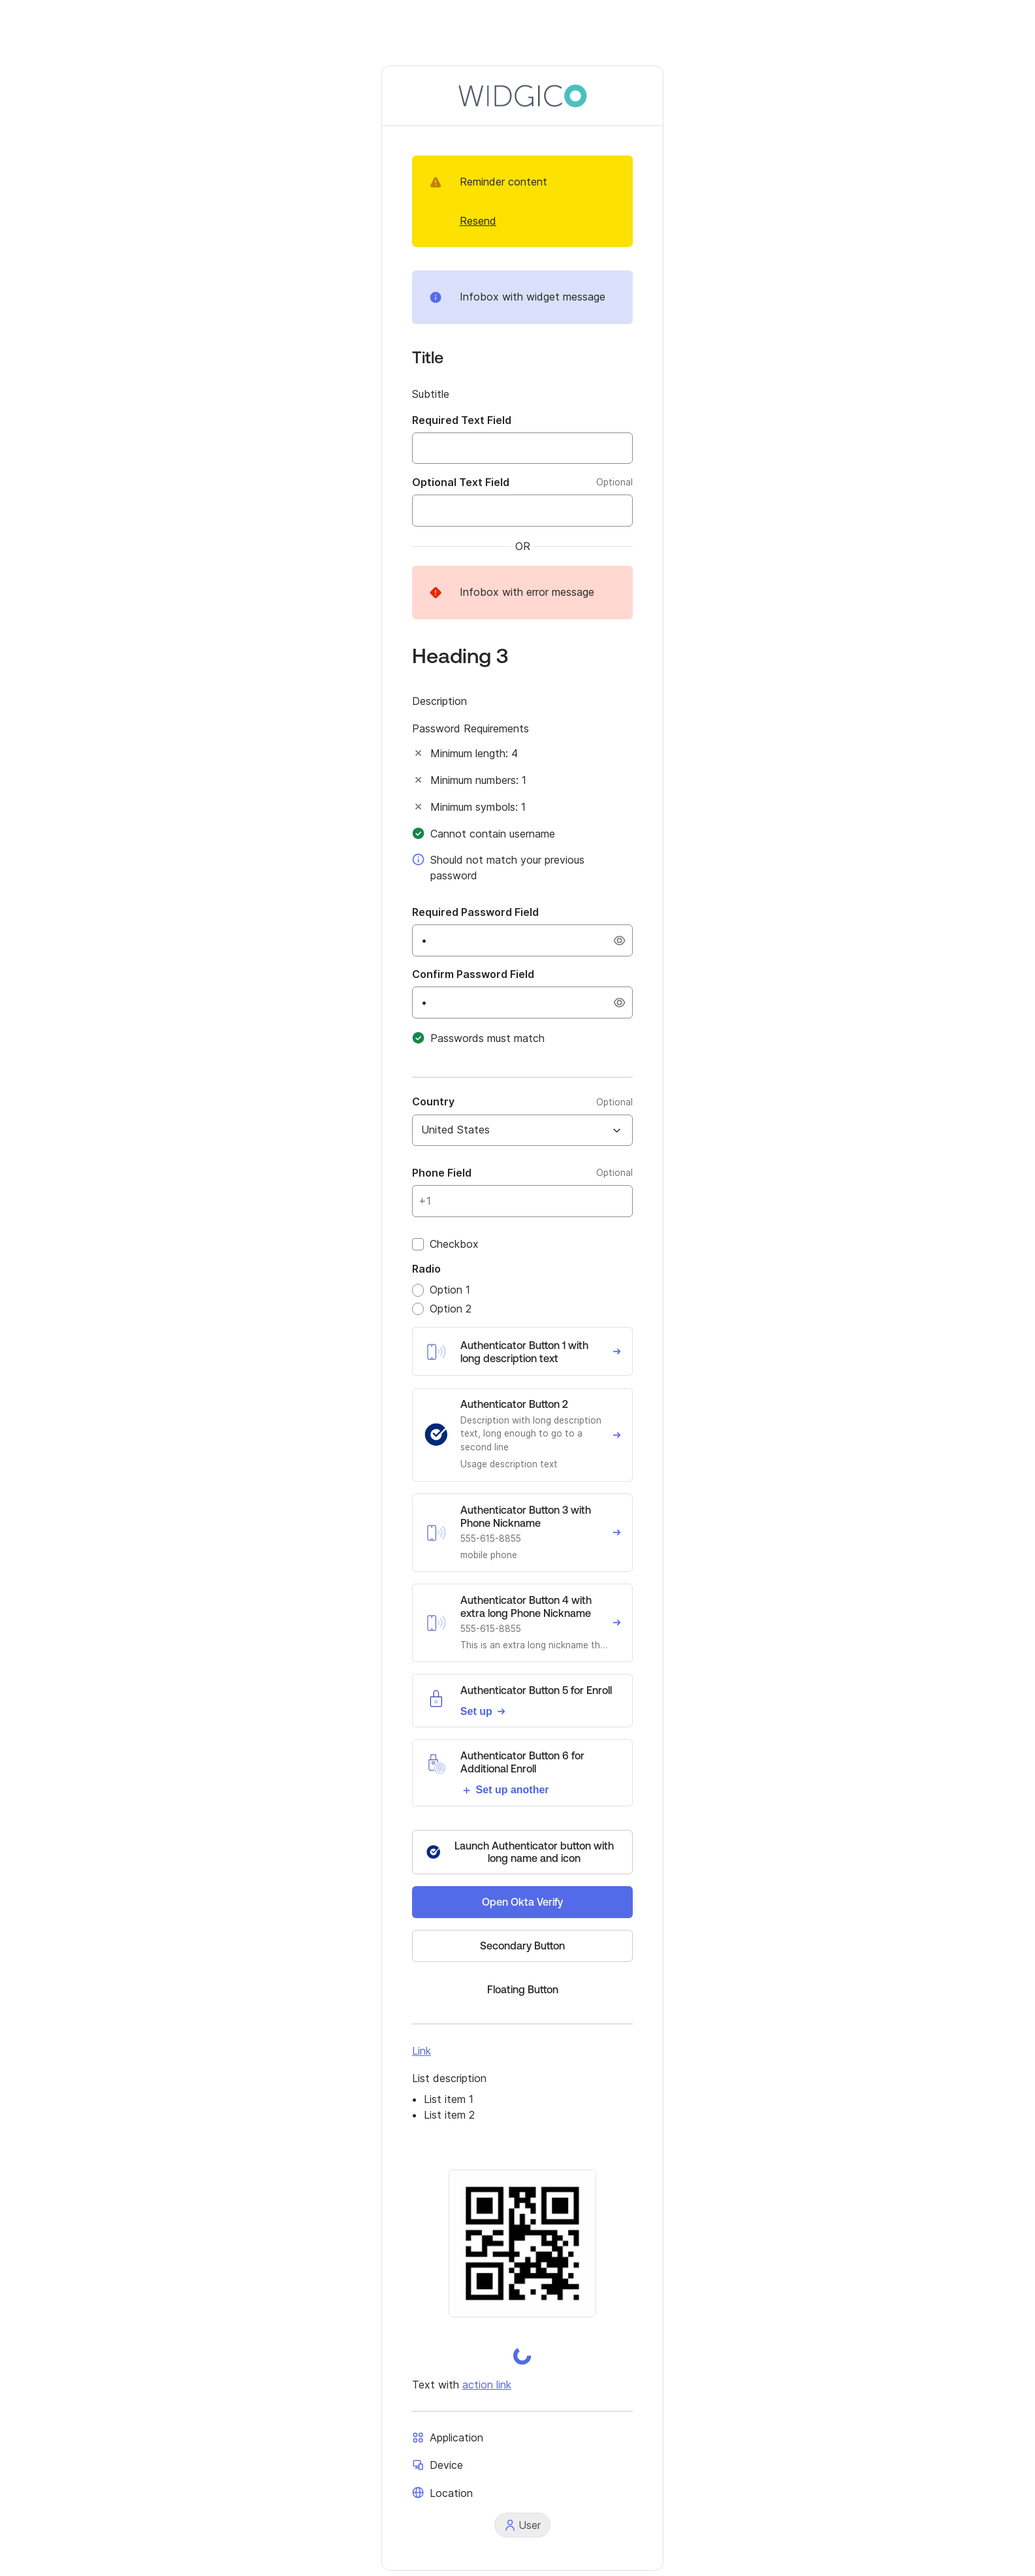
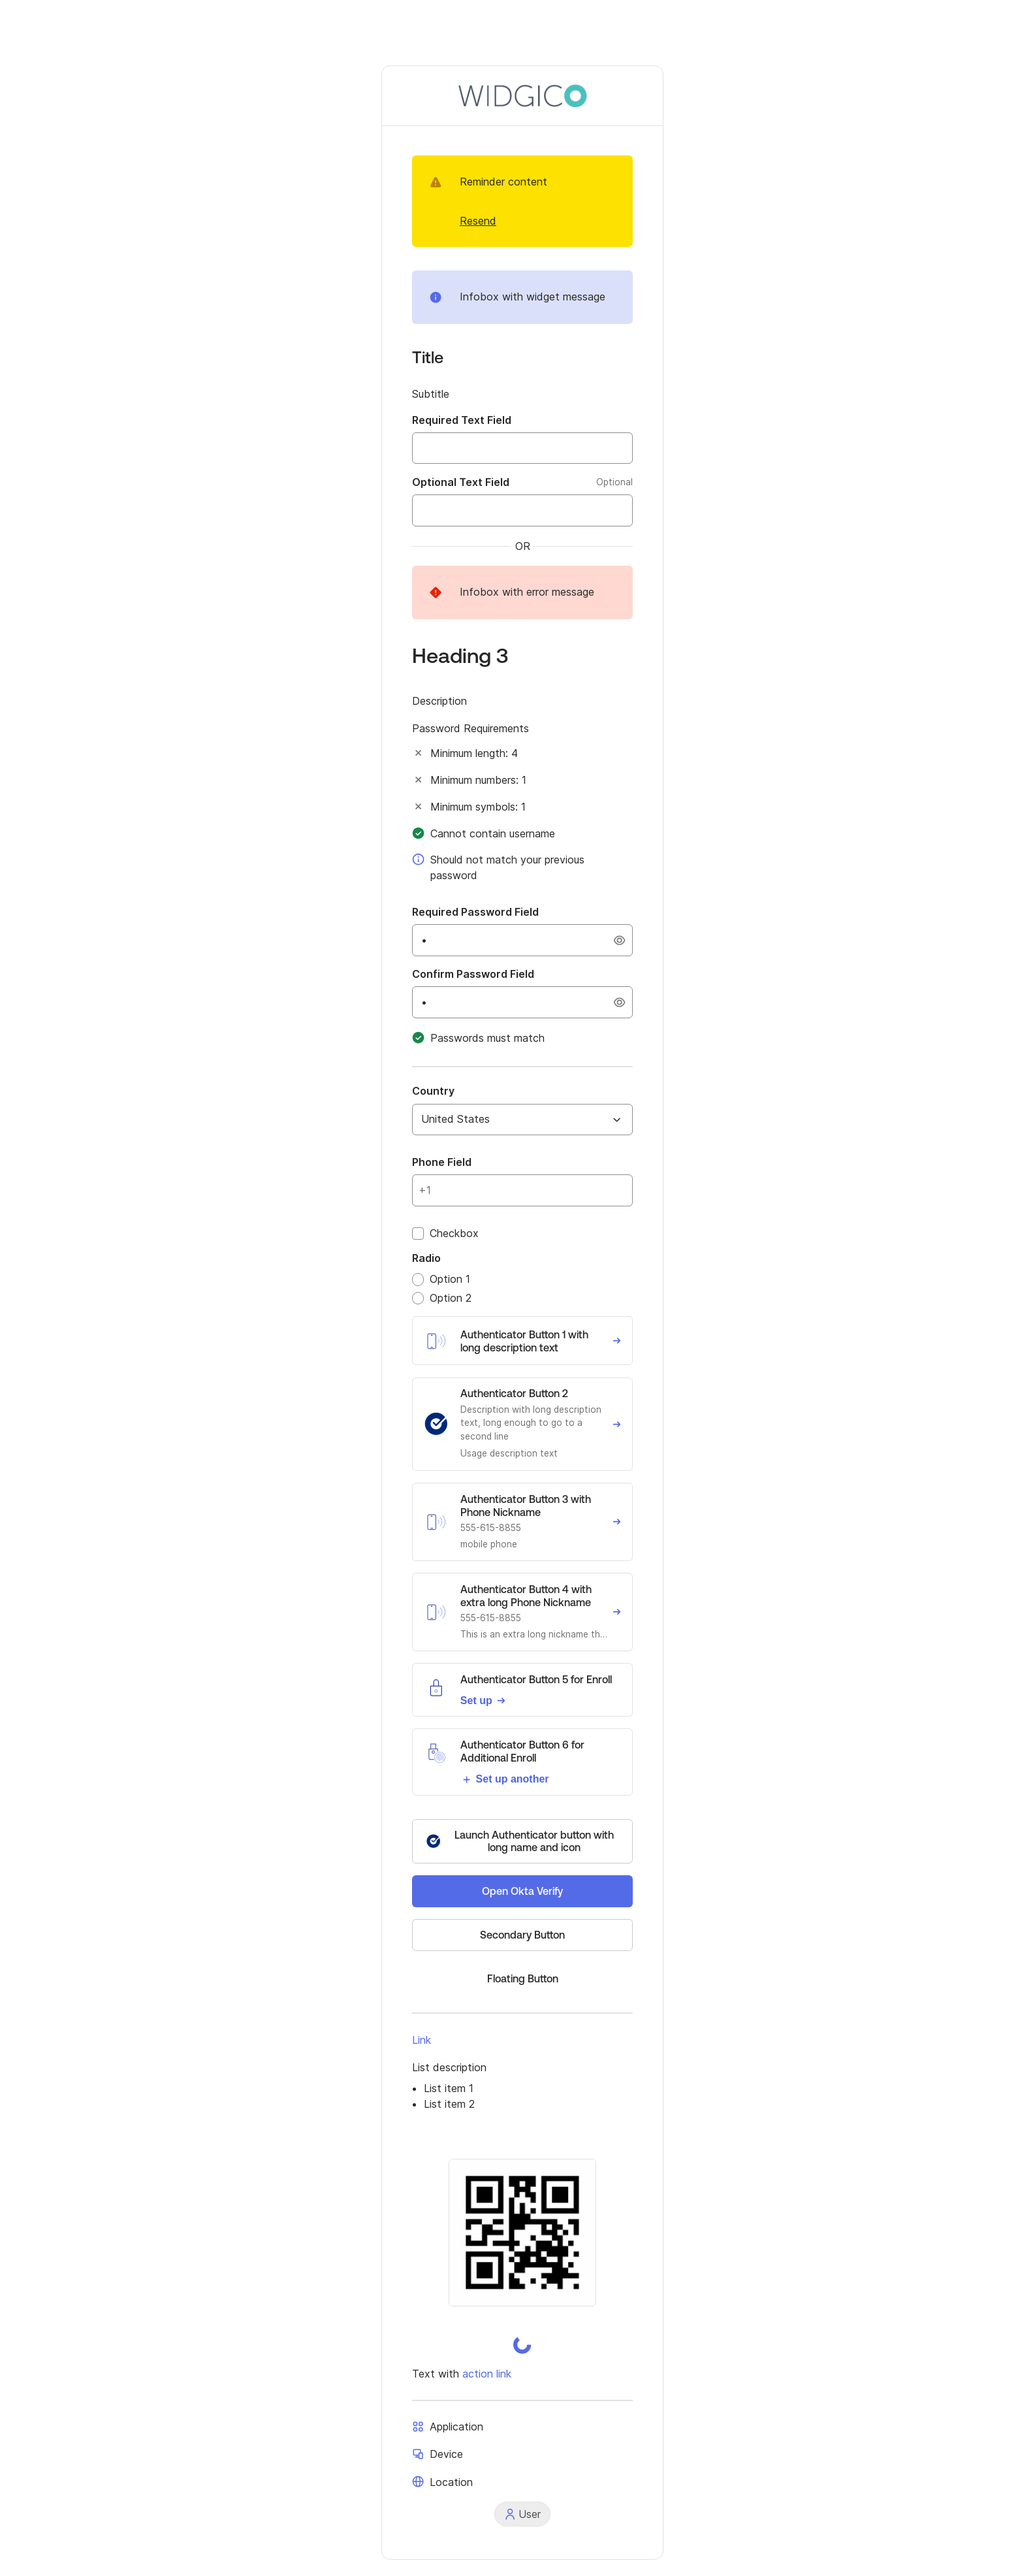
Bug bash fixes

diff --git a/src/v3/src/util/theme.ts b/src/v3/src/util/theme.ts
@@ -23,7 +23,7 @@ import { mergeThemes } from './mergeThemes';
 
 const WHITE_HEX = '#ffffff';
 // Odyssey-defined contrast ratios for their WCAG-friendly palettes
-const ODYSSEY_RATIOS = [1.1, 1.31, 1.61, 2.22, 3.32, 4.5, 4.95, 8.72, 11.73, 14.94];
+const ODYSSEY_RATIOS = [1.1, 1.31, 1.61, 2.22, 3.32, 4.52, 4.93, 8.72, 11.73, 14.94];
 
 interface OdysseyPalette {
   CustomHue50: string,
@@ -174,7 +174,7 @@ export const createThemeAndTokens = (
       MuiAlert: {
         styleOverrides: {
           root: {
-            gap: 0,
+            gap: mergedTokens.Spacing0,
           },
           icon: {
             paddingInlineEnd: mergedTokens.Spacing5,
@@ -192,8 +192,12 @@ export const createThemeAndTokens = (
             // Odyssey CircularProgress does not allow color change but SIW needs a white spinner
             // when rendering it as the startIcon for primary buttons
             ...(ownerState.variant === 'primary' && {
-              '& .MuiCircularProgress-root': {
-                color: mergedTokens.HueNeutralWhite,
+              '&:disabled': {
+                color: mergedTokens.PalettePrimaryLight,
+                backgroundColor: mergedTokens.PalettePrimaryHighlight,
+                '& .MuiCircularProgress-root': {
+                  color: mergedTokens.PalettePrimaryLight,
+                },
               },
             }),
             // Fix for IE11 - don't shrink icon if the button text is multiline
@@ -224,7 +228,7 @@ export const createThemeAndTokens = (
         styleOverrides: {
           root: {
             // Odyssey uses gap for spacing between Checkbox and label which is not IE11-friendly
-            gap: 0,
+            gap: mergedTokens.Spacing0,
           },
           label: {
             // Fixes text overflow in IE11
@@ -260,6 +264,13 @@ export const createThemeAndTokens = (
             },
           },
           adornedEnd: ({ ownerState }) => ({
+            // Odyssey does not support a focus indicator around toggle icon button
+            '& .MuiIconButton-root:focus-visible': {
+              borderRadius: mergedTokens.BorderRadiusMain,
+              outlineColor: mergedTokens.FocusOutlineColorPrimary,
+              outlineStyle: mergedTokens.FocusOutlineStyle,
+              outlineWidth: mergedTokens.FocusOutlineWidthTight,
+            },
             // Explicitly switch to physical properties for password toggle icon since
             // IE11 stylis plugin cannot handle nested logical properties
             ...(ownerState.name && isLtrField(ownerState.name) && {
@@ -272,7 +283,7 @@ export const createThemeAndTokens = (
             // Explicitly switch to physical properties for telephone code
             ...(ownerState.type === 'tel' && {
               '& .MuiInputAdornment-root': {
-                marginInlineStart: 0,
+                marginInlineStart: mergedTokens.Spacing0,
                 marginLeft: mergedTokens.Spacing2,
               },
             }),
@@ -294,12 +305,15 @@ export const createThemeAndTokens = (
       },
       MuiLink: {
         styleOverrides: {
-          root: ({ ownerState }) => ({
-            textDecoration: ownerState?.component === 'a' ? 'underline' : 'inherit',
-          }),
           button: {
             verticalAlign: 'baseline',
-            textDecoration: 'underline',
+          },
+        },
+      },
+      MuiNativeSelect: {
+        styleOverrides: {
+          select: {
+            paddingRight: `${mergedTokens.Spacing7} !important`,
           },
         },
       },

diff --git a/src/v3/src/components/PasswordRequirements/PasswordMatches.tsx b/src/v3/src/components/PasswordRequirements/PasswordMatches.tsx
@@ -11,6 +11,7 @@
  */
 
 import { Box } from '@mui/material';
+import { useOdysseyDesignTokens } from '@okta/odyssey-react-mui';
 import debounce from 'lodash/debounce';
 import { h } from 'preact';
 import {
@@ -38,6 +39,7 @@ const PasswordMatches: UISchemaElementComponent<{
   const { confirmPassword } = data;
   const { translations = [] } = uischema;
   const label = getTranslation(translations, 'label');
+  const tokens = useOdysseyDesignTokens();
 
   const [isMatching, setIsMatching] = useState<boolean>(false);
 
@@ -60,7 +62,12 @@ const PasswordMatches: UISchemaElementComponent<{
       <Box
         component="ul"
         id="credentials.newPassword-list"
-        sx={{ listStyle: 'none', padding: '0', marginBlockStart: '0' }}
+        sx={{
+          listStyle: 'none',
+          padding: '0',
+          marginBlockStart: '0',
+          marginBlockEnd: `-${tokens.Spacing3}`,
+        }}
         aria-hidden
       >
         <PasswordRequirementListItem

diff --git a/src/v3/src/components/PhoneAuthenticator/PhoneAuthenticator.tsx b/src/v3/src/components/PhoneAuthenticator/PhoneAuthenticator.tsx
@@ -144,7 +144,7 @@ const PhoneAuthenticator: UISchemaElementComponent<UISchemaElementComponentWithV
         id="country"
         inputRef={focusRef}
         isDisabled={loading}
-        isOptional={!required}
+        isOptional={required === false}
         label={countryLabel}
         onChange={(e: SelectChangeEvent<string>) => {
           const selectTarget = (
@@ -192,7 +192,7 @@ const PhoneAuthenticator: UISchemaElementComponent<UISchemaElementComponentWithV
             inputMode={inputmode}
             isDisabled={loading}
             isFullWidth
-            isOptional={!required}
+            isOptional={required === false}
             label={mainLabel ?? ''}
             name={fieldName}
             onBlur={(e: ChangeEvent<HTMLInputElement | HTMLTextAreaElement>) => {

diff --git a/src/v3/src/util/mergeThemes.ts b/src/v3/src/util/mergeThemes.ts
@@ -102,6 +102,12 @@ export const mergeThemes = (
                   // @ts-expect-error FIXME CSSInterpolation may not be CSSObject
                   ...resolve(config.styleOverrides?.button, options),
                 }),
+                select: (options: Record<string, unknown>) => ({
+                  // @ts-expect-error FIXME CSSInterpolation may not be CSSObject
+                  ...resolve(prev.components?.[component]?.styleOverrides?.select, options),
+                  // @ts-expect-error FIXME CSSInterpolation may not be CSSObject
+                  ...resolve(config.styleOverrides?.select, options),
+                }),
               },
             },
           },

diff --git a/src/v3/src/components/AuthHeader/AuthHeader.tsx b/src/v3/src/components/AuthHeader/AuthHeader.tsx
@@ -54,9 +54,9 @@ const AuthHeader: FunctionComponent<AuthHeaderProps> = ({
         theme={authCoinProps.theme}
         sx={{
           margin: 'auto',
-          insetBlockStart: '24px',
+          insetBlockStart: '26px',
           borderRadius: '24px',
-          backgroundColor: tokens.HueNeutral50,
+          backgroundColor: tokens.HueNeutralWhite,
         }}
       />
     );

diff --git a/src/v3/src/components/InputText/InputText.tsx b/src/v3/src/components/InputText/InputText.tsx
@@ -64,7 +64,7 @@ const InputText: UISchemaElementComponent<UISchemaElementComponentWithValidation
       inputMode={inputmode}
       isDisabled={loading}
       isFullWidth
-      isOptional={!required}
+      isOptional={required === false}
       name={name}
       label={label ?? ''}
       onChange={(e: ChangeEvent<HTMLInputElement | HTMLTextAreaElement>) => {

diff --git a/src/v3/src/components/InputPassword/InputPassword.tsx b/src/v3/src/components/InputPassword/InputPassword.tsx
@@ -75,7 +75,7 @@ const InputPassword: UISchemaElementComponent<UISchemaElementComponentWithValida
       inputRef={focusRef}
       isDisabled={loading}
       isFullWidth
-      isOptional={!required}
+      isOptional={required === false}
       name={name}
       label={label ?? ''}
       onChange={(e: ChangeEvent<HTMLInputElement | HTMLTextAreaElement>) => {

diff --git a/src/v3/src/components/Select/Select.tsx b/src/v3/src/components/Select/Select.tsx
@@ -70,7 +70,7 @@ const Select: UISchemaElementComponent<UISchemaElementComponentWithValidationPro
       id={name}
       inputRef={focusRef}
       isDisabled={loading}
-      isOptional={!required}
+      isOptional={required === false}
       label={label}
       onChange={(e: SelectChangeEvent<string>) => {
         const selectTarget = (

diff --git a/src/v3/test/e2e/tests/theming.spec.js b/src/v3/test/e2e/tests/theming.spec.js
@@ -21,7 +21,7 @@ test('Theme configuration applies correctly', async (t) => {
 
   await t
     .expect(submitButton.getStyleProperty('background-color'))
-    .eql('rgb(85, 107, 231)');
+    .eql('rgb(84, 107, 231)');
 
   // enter username/pw and submit
   await t
